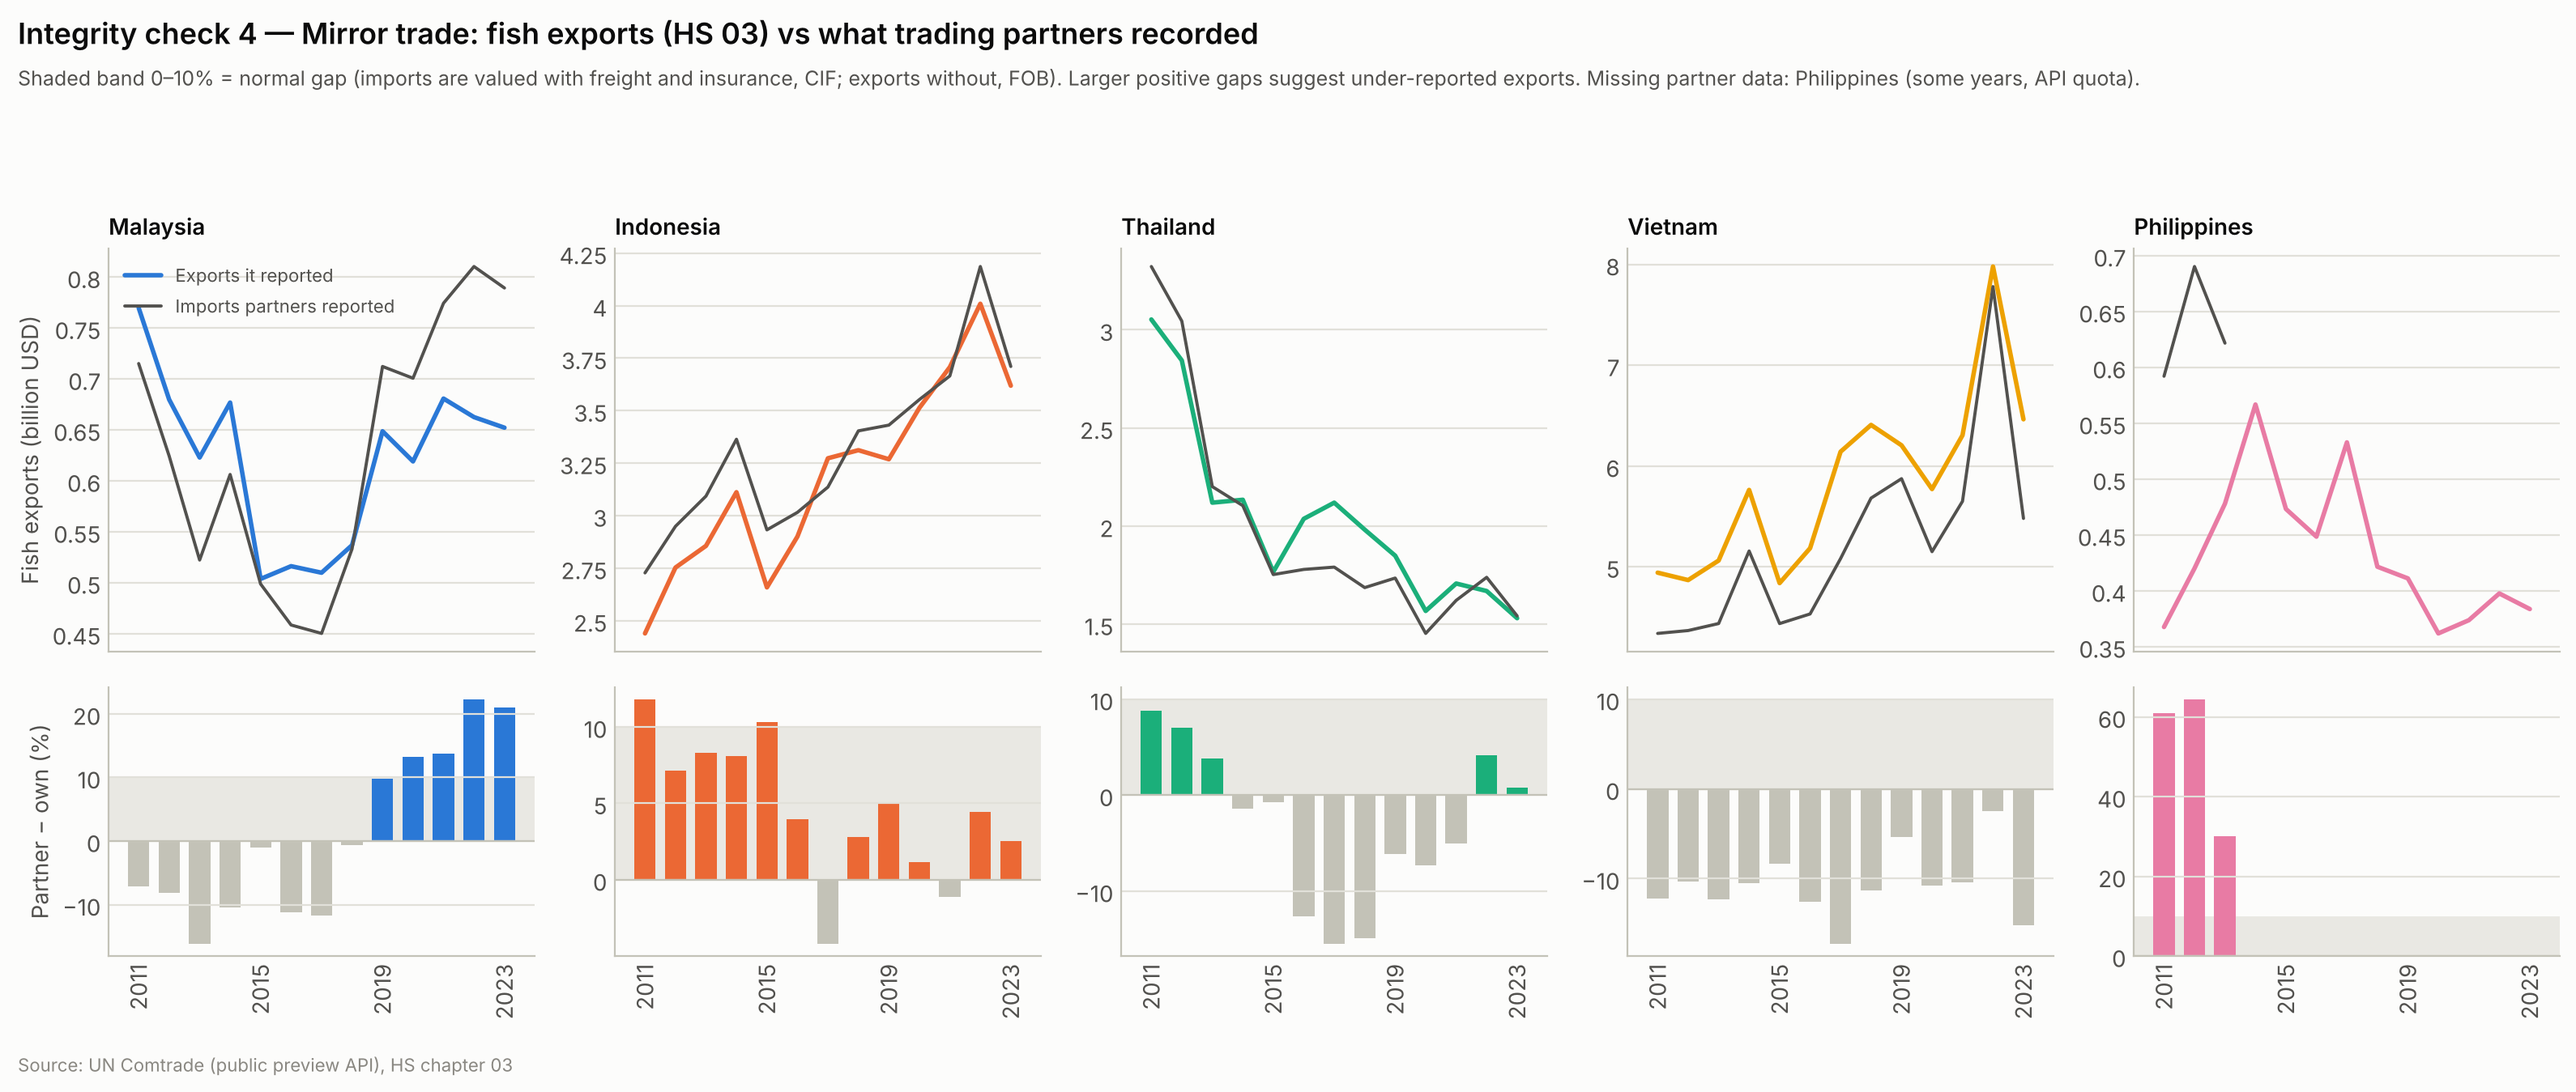
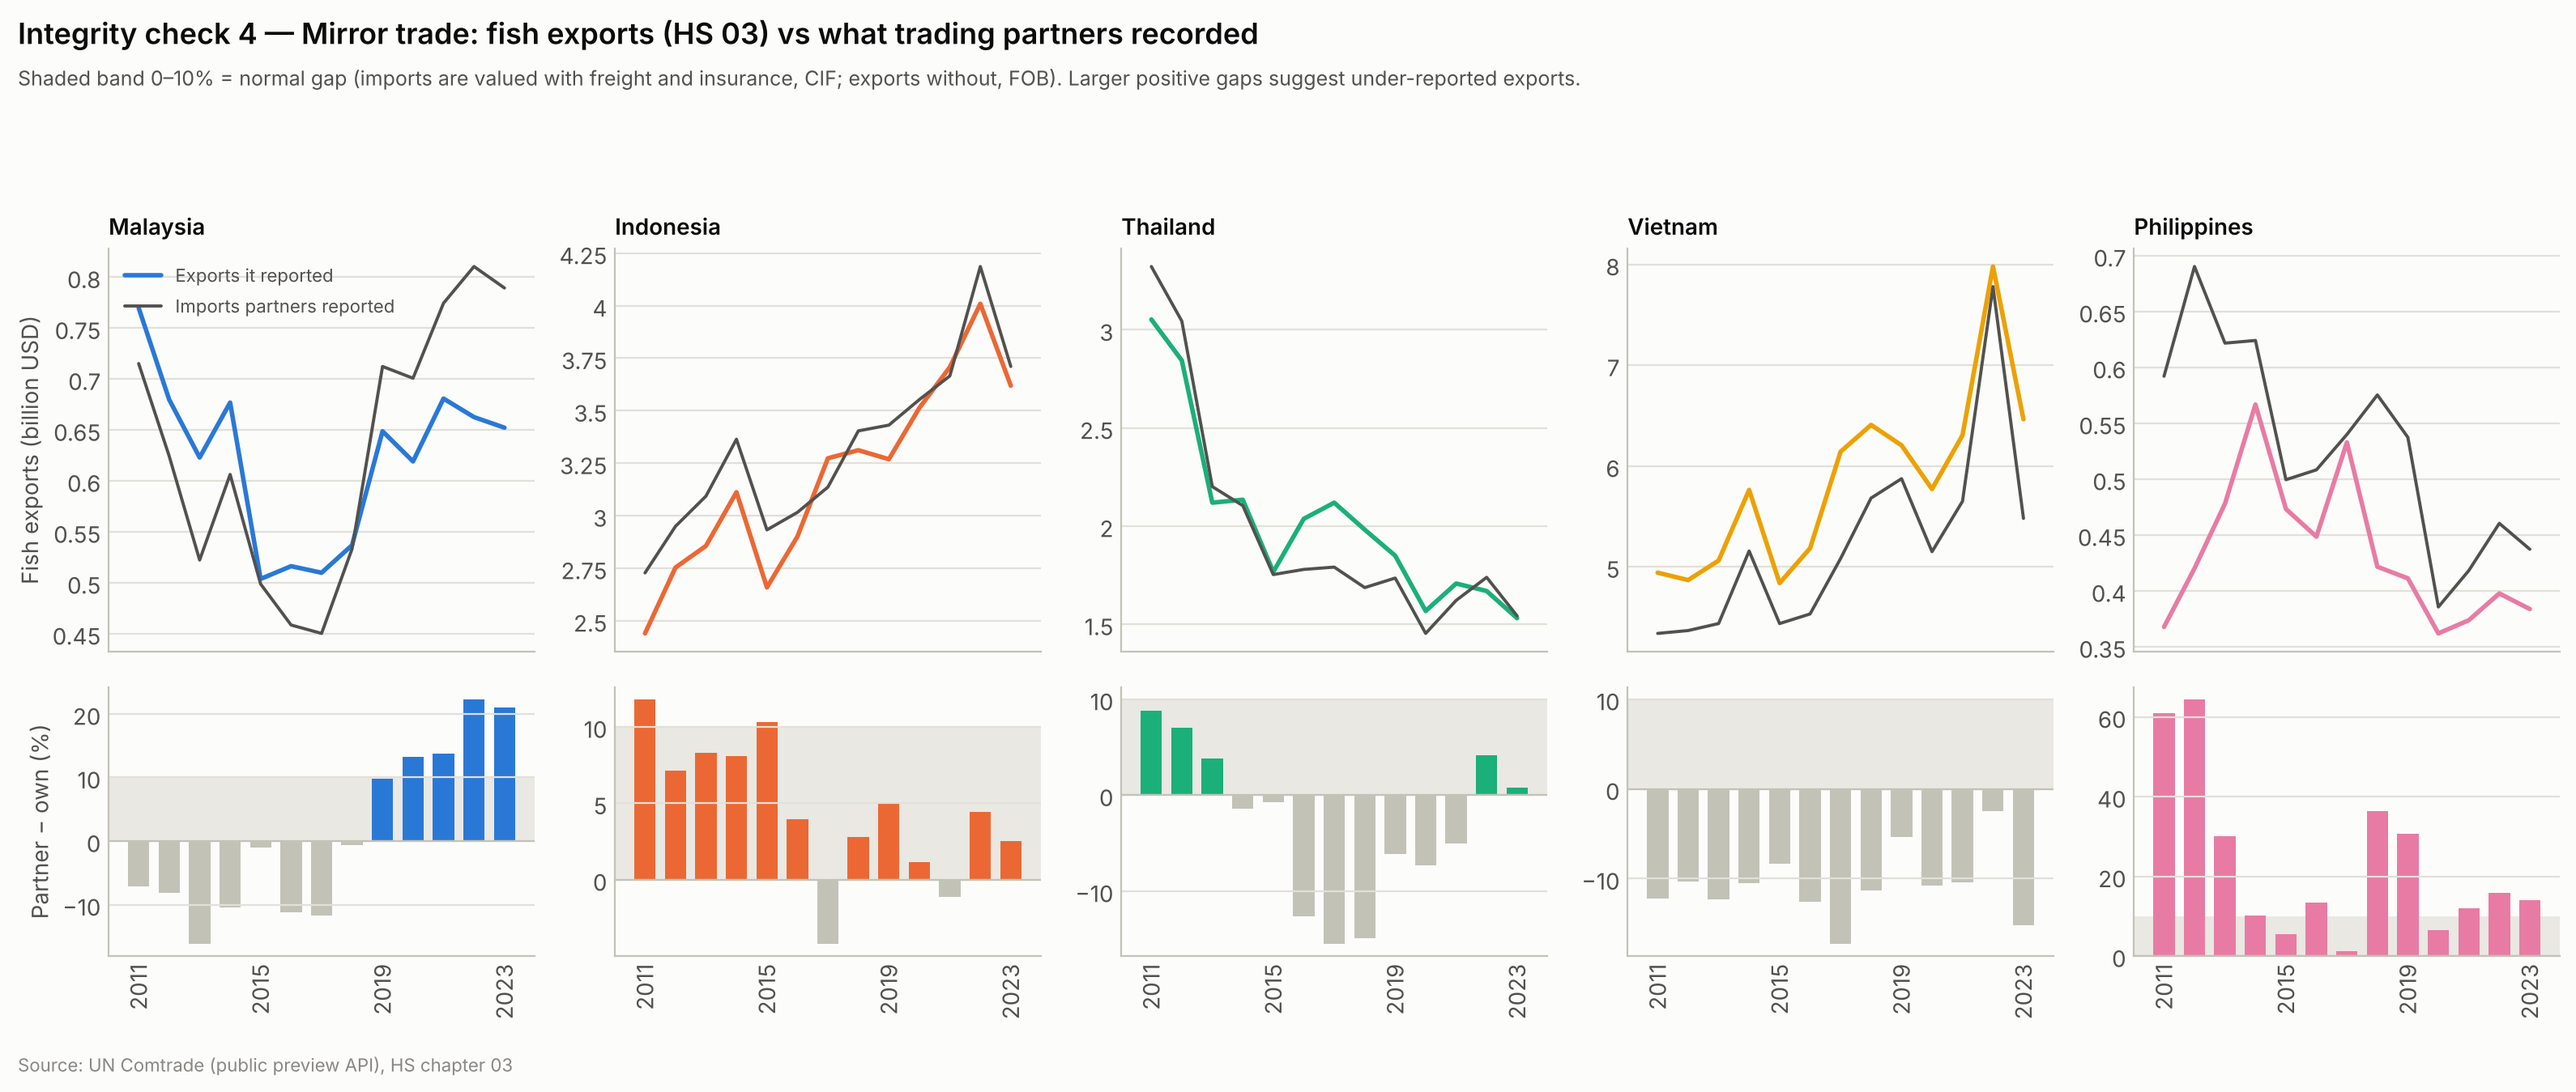
Fill Philippines 2014-2023 Comtrade mirror trade; re-render figs 5.04, 5.06
Claude-Session: https://claude.ai/code/session_01KTympU7EAa3WG3xtmsLdTs

diff --git a/README.md b/README.md
@@ -273,7 +273,7 @@ _Exploratory only — formal tests pending. See [`0-visualisation/`](0-visualisa
 - **ACF:** both series are strongly autocorrelated in levels and close to white noise after differencing → correlation tests must use differenced series (fig 1.05).
 - **SEA:** FAO Area 71 (South China Sea etc.) went from ~6% to 47% overexploited between 2004 and 2021, the largest rise of any FAO area (fig 1.07). In Sea Around Us data, ~50% of stocks in most SEA EEZs are collapsed or over-exploited by 2019, tracking or exceeding the world level; Vietnam is the exception (~20%) (figs 3.01–3.03).
 - **Validation:** OWID matches the UN SDG database exactly; FAO and Sea Around Us agree on the long-run trend but Sea Around Us shows a steeper rise after 2000 (Bland-Altman bias −4 pp, widening) (figs 4.01–4.03).
-- **Data integrity (SEA5):** no sign of fabricated catch figures — leading digits of reported catch follow Benford's law closely for every country (MAD 0.0007–0.0028, Nigrini "close conformity"), and no country's fisheries value-vs-catch is a peer outlier (|z| ≤ 1.4). The real gap is **under-reporting**: Sea Around Us estimates 45% (Philippines), 39% (Malaysia), 28% (Vietnam), 24% (Thailand) and 10% (Indonesia) of 2015–19 catch is missing from official statistics. Mirror trade: only Malaysia shows partner-recorded imports well above its own reported exports, since 2019 (+10% to +22%); Vietnam and Thailand show the opposite (partners record 6–11% less), which points to re-exports or transshipment rather than hidden exports (figs 5.01–5.06).
+- **Data integrity (SEA5):** no sign of fabricated catch figures — leading digits of reported catch follow Benford's law closely for every country (MAD 0.0007–0.0028, Nigrini "close conformity"), and no country's fisheries value-vs-catch is a peer outlier (|z| ≤ 1.4). The real gap is **under-reporting**: Sea Around Us estimates 45% (Philippines), 39% (Malaysia), 28% (Vietnam), 24% (Thailand) and 10% (Indonesia) of 2015–19 catch is missing from official statistics. Mirror trade: partners record clearly more fish imports than the country reports exporting for the **Philippines** (median +13% in 2015–23; +61–64% in 2011–12, +31–37% in 2018–19) and **Malaysia** since 2019 (+10% to +22%) — consistent with under-reported exports. The Philippines also has the highest unreported-catch share. Vietnam and Thailand show the opposite (partners record 6–11% less), which points to re-exports or transshipment rather than hidden exports (figs 5.01–5.06).
 
 ---
 
@@ -283,6 +283,7 @@ _Exploratory only — formal tests pending. See [`0-visualisation/`](0-visualisa
 |------|--------|--------|
 | 2026-11-18 | Salah | Initial repo: project plan, hypotheses, datasets, analysis pipeline, rubric mapping, assumption & post-hoc tests, MIT licence |
 | 2026-11-18 | Salah | Added all raw datasets (6 OWID + 33 Sea Around Us files), `src/download_data.py`, data dictionary; switched SEA source to Sea Around Us EEZ data; added circularity caveat for SAU stock status |
+| 2026-11-22 | Salah | Filled Philippines 2014–2023 Comtrade mirror-trade data (previously blocked by the API rate limit); re-rendered figs 5.04 and 5.06 |
 | 2026-11-22 | Salah | Added data-integrity sources recommended for validation (SDG 14.7.1 + World Bank GDP/capture, UN Comtrade mirror trade, Benford digit counts from SAU records), `download_data.py --only integrity`, and visualisation section 5 (6 figures) |
 | 2026-11-21 | Salah | Added `0-visualisation/` (visualise.py + 28 figures + gallery README); fixed domestic/foreign fleet labels in `sau/catch_summary/` for the 9 split EEZs (and in `download_data.py`); first exploratory findings |
 | 2026-11-18 | Salah | Added alternative sources for cross-validation (UN SDG 14.4.1, World Bank API, Sea Around Us World / FAO areas 57 & 71 / 5 SEA LMEs; 26 files), validation test plan, download script `--only validation` |

diff --git a/data/raw/README.md b/data/raw/README.md
@@ -187,7 +187,6 @@ These test whether the officially **reported** catch of each SEA country is beli
 ### `validation/comtrade/fish_hs03_mirror_trade.csv`
 
 `country, m49, year, reported_exports_usd, partner_imports_usd, n_partners` — SEA5, 2011–2023. Values are annual totals (all partners, all transport modes) in current USD. Source: UN Comtrade public API (preview endpoint).
-- ⚠ **Philippines 2014–2023 partner imports are blank**: the free Comtrade quota ran out during download (HTTP 403). Re-run `python src/download_data.py --only integrity` on another day to fill them.
 
 ### `validation/benford/sau_catch_leading_digits.csv`
 
